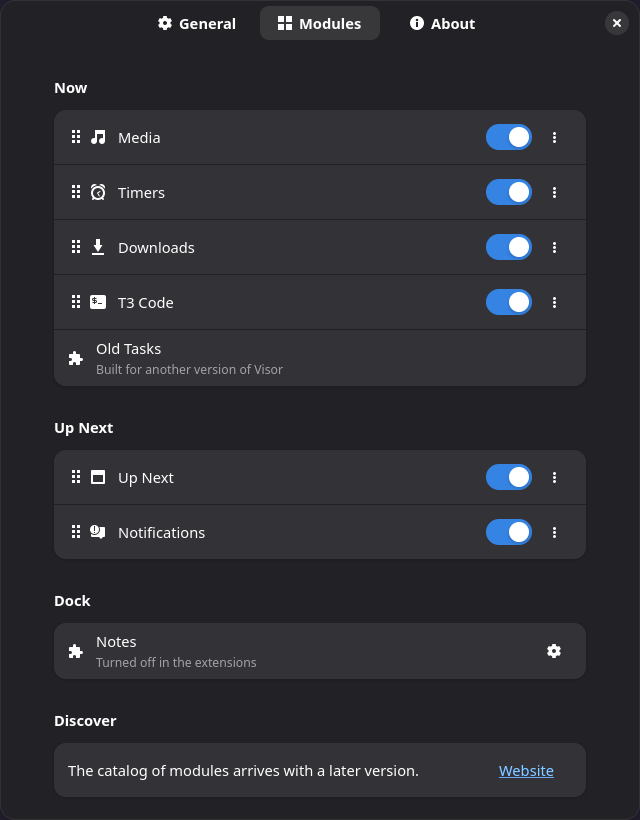
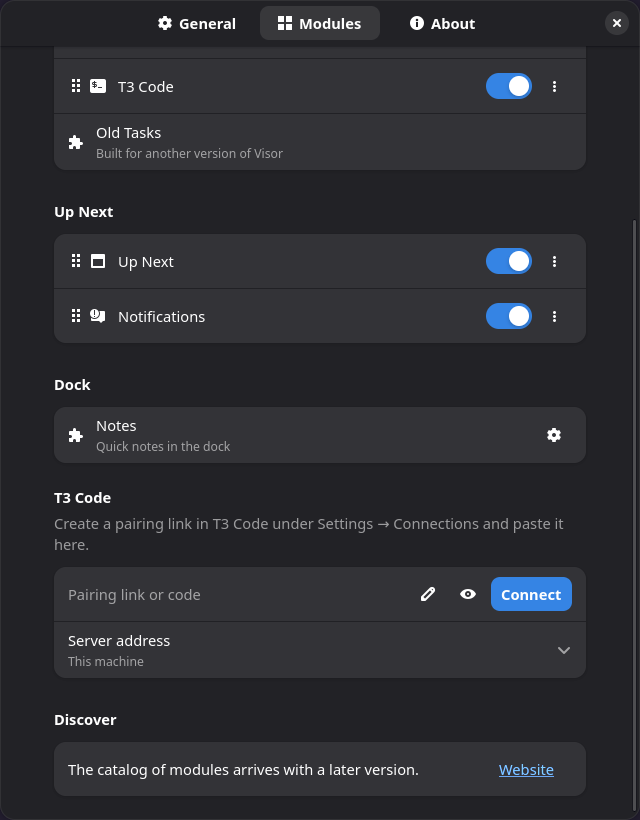
docs(t3): describe pairing and revoking, translate the new strings, retake screenshots

diff --git a/docs/t3-protocol.md b/docs/t3-protocol.md
@@ -39,8 +39,19 @@ The environment issues its own sessions (`docs/internals/environment-auth.md`,
    revoked.
 4. **Socket**: `ws://<host>/ws?orchestrationProtocol=2&wsTicket=<ticket>` (`apps/server/src/ws.ts`).
 
-Visor does step 1, 3 and 4. Step 2 belongs to the settings; the module reads the token from the setting
-`t3-access-token` and stays empty and silent without one.
+The module does step 1, 3 and 4. Step 2 is done by the settings window (Modules → T3 Code,
+`src/prefs/t3.ts`; what both sides share is in `src/modules/t3/pairing.ts`): it takes the pairing link or
+the bare code, checks the descriptor, exchanges the code and writes the token to the setting
+`t3-access-token`, and the origin to `t3-server-url` when it is not the local server. The token endpoint
+answers a wrong, used or expired code with 401 (`EnvironmentAuthInvalidError`) and a malformed request
+with 400. The module reads the token from the setting, follows its changes without a restart and stays
+empty and silent without one. A 401 or 403 on the ticket request means the token is no good: the module
+logs one line and asks again only when the token or the address changes.
+
+**Revoking.** `POST /api/auth/clients/revoke` (`{sessionId}`) needs the scope `access:write`, which Visor
+does not ask for, and refuses the session that calls it (`current_session_revoke_not_allowed`, 403). A
+client cannot end its own session, so Disconnect only forgets the token; the session stays listed in
+T3 Code under Settings → Connections until it is revoked there or expires.
 
 ## 3. Messages
 

diff --git a/docs/architecture.md b/docs/architecture.md
@@ -27,6 +27,7 @@ src/
 │   └── kit.ts          UI building blocks handed to modules
 ├── prefs.ts            settings window (Adw): General, Modules, About; the pages are in prefs/
 ├── prefs/              runs in its own GTK process: never imports St, Clutter, Shell or shell UI modules
+│                       (pure files of a module, such as modules/t3/pairing.ts, are fine)
 ├── modules/            built-in modules, using only api.ts
 └── lib/                small helpers
 styles/                 joined into one stylesheet.css by the build
